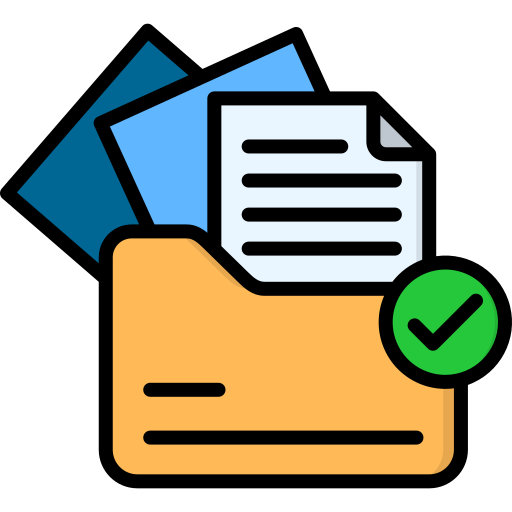
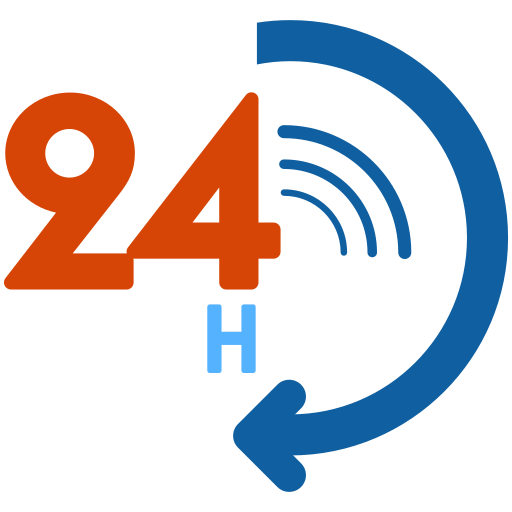
SMS 13.0

diff --git a/modules/RP01/RP01/report_24_hours/views.py b/modules/RP01/RP01/report_24_hours/views.py
@@ -539,26 +539,48 @@ def get_24_hours_report():
 
                 delay_text = ''
 
-                prev_date = selected_dt.date() - timedelta(days=1)
+                window_start = (
+                    selected_dt - timedelta(days=1)
+                ).replace(
+                    hour=8,
+                    minute=0,
+                    second=0,
+                    microsecond=0
+                )
+
+                window_end = selected_dt.replace(
+                    hour=8,
+                    minute=0,
+                    second=0,
+                    microsecond=0
+                )
 
                 cur.execute("""
                     SELECT
                         delay_name,
+                        COUNT(
+                            DISTINCT crane_number
+                        ) AS crane_count,
                         COALESCE(
                             SUM(total_time_mins),
                             0
                         ) AS total_mins
                     FROM ldud_delays
                     WHERE ldud_id = %s
-                    AND TO_DATE(
-                        LEFT(start_datetime, 10),
-                        'YYYY-MM-DD'
-                    ) = %s
+                    AND TO_TIMESTAMP(
+                        start_datetime,
+                        'YYYY-MM-DD"T"HH24:MI'
+                    ) >= %s
+                    AND TO_TIMESTAMP(
+                        start_datetime,
+                        'YYYY-MM-DD"T"HH24:MI'
+                    ) < %s
                     GROUP BY delay_name
                     ORDER BY delay_name
                 """, (
                     ldud_id,
-                    prev_date
+                    window_start,
+                    window_end
                 ))
 
                 delay_rows = cur.fetchall()
@@ -567,55 +589,87 @@ def get_24_hours_report():
 
                 for d in delay_rows:
 
-                    delay_name = d['delay_name'] or ''
+                    delay_name = (
+                        d['delay_name']
+                        or ''
+                    )
 
-                    calculated_hrs = round(
-                        float(
-                            d['total_mins'] or 0
-                        ) / 60,
+                    total_mins = float(
+                        d['total_mins']
+                        or 0
+                    )
+
+                    crane_count = int(
+                        d['crane_count']
+                        or 0
+                    )
+
+                    if crane_count <= 0:
+                        crane_count = 1
+
+                    if crane_count > 4:
+                        crane_count = 4
+
+                    adjusted_mins = (
+                        total_mins / 4
+                    ) * crane_count
+
+                    adjusted_hrs = round(
+                        adjusted_mins / 60,
                         2
                     )
 
                     delay_parts.append(
-                        f"{delay_name} - {calculated_hrs} Hrs"
+                        f"{delay_name} - {adjusted_hrs} Hrs"
                     )
 
-                delay_text = ", ".join(delay_parts)
+                delay_text = ", ".join(
+                    delay_parts
+                )
 
                 print(
                     "VESSEL:",
                     row['vessel_name'],
                     "LDUD:",
                     ldud_id,
-                    "PREVIOUS DATE:",
-                    prev_date,
+                    "WINDOW:",
+                    window_start,
+                    "TO",
+                    window_end,
                     "DELAYS:",
                     delay_text
                 )
 
                 mv_discharge_list.append({
 
-                    'vessel_name': row['vessel_name'],
+                    'vessel_name':
+                        row['vessel_name'],
 
-                    'cargo_name': cargo_name,
+                    'cargo_name':
+                        cargo_name,
 
-                    'discharge_24hrs': round(
-                        discharge_24hrs,
-                        2
-                    ),
+                    'discharge_24hrs':
+                        round(
+                            discharge_24hrs,
+                            2
+                        ),
 
-                    'balance_qty': round(
-                        balance_qty,
-                        2
-                    ),
+                    'balance_qty':
+                        round(
+                            balance_qty,
+                            2
+                        ),
 
-                    'delay_name': delay_text
+                    'delay_name':
+                        delay_text
 
                 })
 
             print(
                 "MV DISCHARGE LIST COUNT:",
-                len(mv_discharge_list)
+                len(
+                    mv_discharge_list
+                )
             )
 
             print(